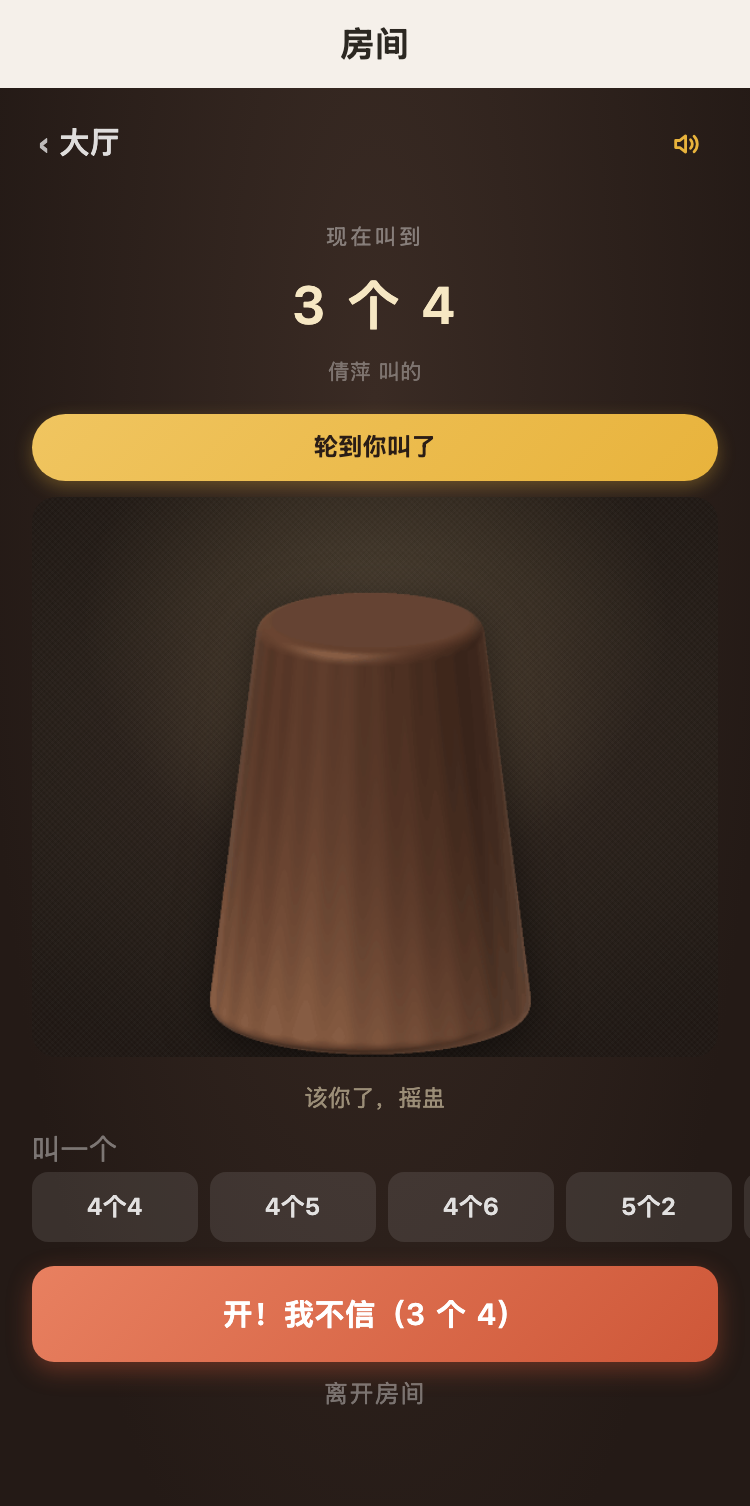
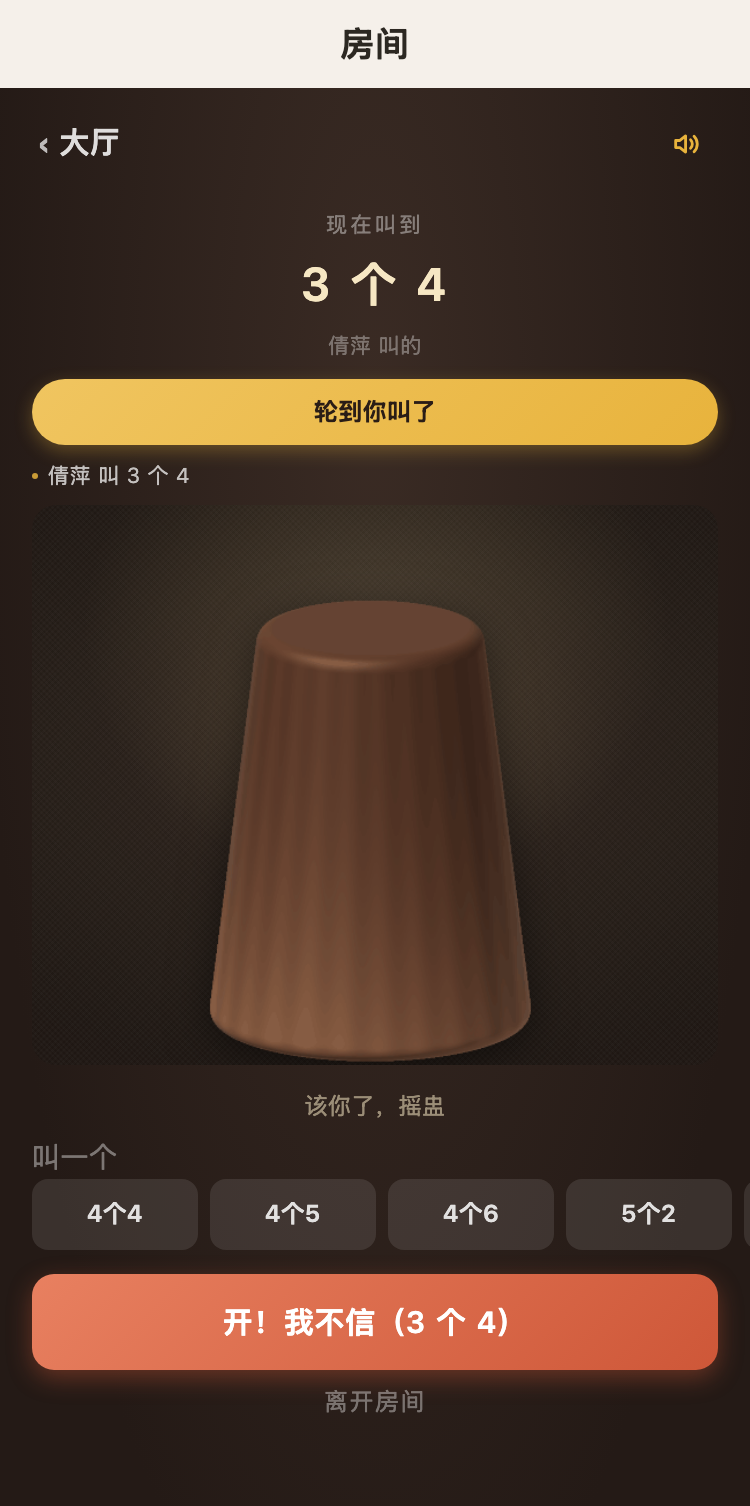
feat(3.9.26): 加事件流（别人做了什么），并压掉一屏溢出的 84px
在它之前，别人叫骰只是屏幕上的数字悄悄变了 —— 桌上没人知道刚才谁干了什么，
屏幕看起来像自己在动，而不是对面坐着人在玩。竞品拆解里这条的优先级
被排在'再加几个音效'之前，因为它补的是因果感，不是信息量。

事件在**前端对比前后两帧生成**，不让服务端再存一份事件列表：
响应里本来就带着 bid/players/lastResult，多存一份就是多一个会和状态
不一致的副本（这个项目对'同一件事有两个出口'栽过多次）。

受压空间的三处实测取舍：
· 事件流只留 1 条 —— 2 条就把「开！」和「离开房间」挤下屏，而那是这一屏唯一的出口
· 叫骰区 34/26rpx → 22/16rpx、字号 52 → 46（它只是一行信息，原来占了 190px）
· 骰盅场景**压到 500rpx 是错的**（盅抬起后包围盒顶跑到 −50.9rpx 会被裁掉盅顶），
  geometry 断言当场报错，所以退回 560，改从别处省

顺带修了 geometry 断言的解析器： 用 (?:^|;) 匹配属性，
而块内注释结尾不是分号 —— 一条写在 height 前面的注释就让 height 完全读不到，
报错是'读不到 rpx 值'，看起来像布局坏了，其实是尺子坏了。

diff --git a/outputs/ui/room-liarPlay.html b/outputs/ui/room-liarPlay.html
@@ -380,9 +380,13 @@ view, text, button, input, textarea { box-sizing: border-box }
 }
 
 
-.bidbar { text-align: center; padding: 17px 0 13px }
+.bidbar {
+  text-align: center;
+  
+  padding: 11px 0 8px;
+}
 .bid-lbl { font-size: 10.5px; color: rgba(255,255,255,.4); letter-spacing: 1.5px }
-.bid-val { font-size: 26px; font-weight: 700; color: #F6E7C3; margin-top: 5px; letter-spacing: 1px }
+.bid-val { font-size: 23px; font-weight: 700; color: #F6E7C3; margin-top: 3px; letter-spacing: 1px }
 .bid-val.hint { font-size: 13px; color: rgba(255,255,255,.4); font-weight: 400 }
 .bid-by { font-size: 10.5px; color: rgba(255,255,255,.35); margin-top: 4px }
 
@@ -397,6 +401,7 @@ view, text, button, input, textarea { box-sizing: border-box }
 
 .cupscene {
   position: relative;
+  
   height: 280px;
   display: flex; align-items: center; justify-content: center;
   margin-bottom: 12px;
@@ -742,6 +747,8 @@ view, text, button, input, textarea { box-sizing: border-box }
 }
 .textbtn:active { color: rgba(255,255,255,.6) }
 
+.actrow .textbtn { flex: 1; height: 38px; font-size: 13px }
+
 
 
 
@@ -862,16 +869,22 @@ view, text, button, input, textarea { box-sizing: border-box }
 
 
 
+
 .cdbox {
   position: relative; overflow: hidden;
-  text-align: center; padding: 35px 15px 32px;
-  border-radius: var(--r-3); margin-bottom: var(--gap-3);
-  background: linear-gradient(150deg, #4A3630 0%, #2E211C 100%);
+  min-height: calc(100vh - 120px);
+  display: flex; flex-direction: column;
+  align-items: center; justify-content: center;
+  text-align: center; padding: 20px 15px;
+  border-radius: var(--r-3);
+  background:
+    radial-gradient(ellipse 70% 46% at 50% 46%, rgba(232,179,60,.13) 0%, rgba(232,179,60,0) 72%),
+    linear-gradient(150deg, #4A3630 0%, #2E211C 100%);
   box-shadow: var(--sh-3);
 }
 .cd-glow {
-  position: absolute; width: 230px; height: 230px; border-radius: 50%;
-  left: 50%; top: 50%; margin-left: -115px; margin-top: -115px;
+  position: absolute; width: 320px; height: 320px; border-radius: 50%;
+  left: 50%; top: 50%; margin-left: -160px; margin-top: -160px;
   background: radial-gradient(circle, rgba(232,179,60,.3) 0%, rgba(232,179,60,0) 70%);
   animation: cdPulse 1s ease-in-out infinite;
 }
@@ -882,10 +895,11 @@ view, text, button, input, textarea { box-sizing: border-box }
 .cd-in { position: relative }
 .cd-lbl { font-size: 11px; color: rgba(255,255,255,.5); letter-spacing: 2px }
 .cd-num {
-  font-size: 70px; font-weight: 700; color: #F6E7C3;
-  line-height: 1.05; margin: 7px 0 5px;
-  letter-spacing: -1px;
-  text-shadow: 0 3px 15px rgba(232,179,60,.45);
+  
+  font-size: 100px; font-weight: 700; color: #F6E7C3;
+  line-height: 1.02; margin: 10px 0 7px;
+  letter-spacing: -2px;
+  text-shadow: 0 4px 22px rgba(232,179,60,.5);
 }
 
 .cd-num.pop-a { animation: cdPopA .82s cubic-bezier(.22, 1.45, .5, 1) both }
@@ -903,7 +917,7 @@ view, text, button, input, textarea { box-sizing: border-box }
 
 
 .cd-num.go {
-  font-size: 60px;
+  font-size: 75px;
   color: #FFF3D6;
   text-shadow: 0 0 20px rgba(255,210,140,.9), 0 4px 17px rgba(232,179,60,.6);
   animation: cdGoBurst .5s cubic-bezier(.16, 1.3, .4, 1) both;
@@ -1189,6 +1203,39 @@ view, text, button, input, textarea { box-sizing: border-box }
 .uw-seat.out .uw-seat-t { text-decoration: line-through }
 
 
+
+.uw-tie {
+  margin-bottom: var(--gap-2);
+  padding: 13px 12px;
+  border-radius: var(--r-2);
+  background: linear-gradient(160deg, rgba(232,179,60,.16), rgba(232,179,60,.06));
+  border: 1px solid rgba(232,179,60,.42);
+  text-align: center;
+  animation: tieIn .42s cubic-bezier(.34,1.3,.64,1) backwards;
+}
+@keyframes tieIn {
+  0%   { opacity: 0; transform: scale(.94) }
+  100% { opacity: 1; transform: scale(1) }
+}
+.uw-tie-t {
+  font-size: 17px; font-weight: 700; color: #FFE9B8; letter-spacing: 1px;
+}
+.uw-tie-s {
+  margin-top: 5px; font-size: 12px; color: rgba(255,255,255,.82); line-height: 1.6;
+}
+.uw-tie-x {
+  margin-top: 4px; font-size: 10px; color: rgba(255,255,255,.45);
+}
+
+
+.uw-note.strong { color: #FFD9A0; font-weight: 600 }
+
+.uw-dead {
+  margin-top: 6px;
+  font-size: 10.5px; color: rgba(255,255,255,.55); line-height: 1.7;
+}
+
+
 .uw-note {
   font-size: 11.5px; color: rgba(255,255,255,.5);
   text-align: center; line-height: 1.7; margin-bottom: var(--gap-2);
@@ -1211,6 +1258,28 @@ view, text, button, input, textarea { box-sizing: border-box }
 }
 
 
+.evstrip {
+  margin: 1px 0 7px;
+  display: flex; flex-direction: column; gap: 3px;
+}
+.ev-row {
+  display: flex; align-items: center; gap: 5px;
+  opacity: .5;
+  transition: opacity .2s;
+}
+
+.ev-row.new { opacity: 1; animation: evIn .34s cubic-bezier(.22, 1, .36, 1) backwards }
+@keyframes evIn {
+  0%   { opacity: 0; transform: translateX(-7px) }
+  100% { opacity: 1; transform: translateX(0) }
+}
+.ev-dot {
+  width: 3px; height: 3px; border-radius: 50%; flex: none;
+  background: rgba(232,179,60,.85);
+}
+.ev-t { font-size: 10.5px; color: rgba(255,255,255,.72); line-height: 1.4 }
+
+
 
 .uw-list {
   display: flex; flex-wrap: wrap; gap: 7px;
@@ -1220,7 +1289,8 @@ view, text, button, input, textarea { box-sizing: border-box }
   
   flex: 0 0 48.5%;
   box-sizing: border-box;
-  padding: 12px 10px;
+  
+  padding: 8.5px 10px;
   background: rgba(255,255,255,.06);
   border: 1px solid rgba(255,255,255,.08);
   border-radius: 10px;
@@ -1740,7 +1810,12 @@ view, text, button, input, textarea { box-sizing: border-box }
         <span >轮到你叫了</span></div>
 
       
-      <div class="cupscene">
+      <div class="evstrip">
+        <div class="ev-row new">
+          <span class="ev-dot"></span>
+          <span class="ev-t">倩萍 叫 3 个 4</span>
+        </div>
+      </div><div class="cupscene">
         <div class="cs-felt"></div>
         <div class="cs-spot"></div>
 

diff --git a/miniprogram/pages/room/room.js b/miniprogram/pages/room/room.js
@@ -196,6 +196,22 @@ Page({
      */
     cdTick: 0,
 
+    /*
+     * 事件流：**别人做了什么**。
+     *
+     * 这是多人游戏最容易缺、又最影响"像不像在跟人玩"的一件东西。
+     * 在它之前，别人叫骰只是界面上的数字悄悄变了 —— 桌上没人知道
+     * 刚才谁干了什么，也没有"哦他叫了个大的"这个瞬间。
+     * 竞品（Plato 等）的做法是每步动作同时发成一条聊天消息，
+     * 我们不需要聊天，只需要**一行可见的动作记录**。
+     *
+     * 只保留 1 条（真机高度量过：2 条就把底部出口挤下屏了 ——
+     *   而底部那两个按钮是这一屏唯一的出口，比"留两条历史"重要得多。
+     *   真要多留历史，应该换布局（浮层），不该硬挤主界面的高度），
+     * 且**不含自己的操作**（自己做的自己有反馈）。
+     */
+    events: [],
+
     /* ---------- 骰盅 ---------- */
     cupSrc: 'cup-down',  // 当前显示的盅图（cup-down / cup-shake / cup-up）
     cupCls: '',          // 附加动画类（shaking / slam / lift）
@@ -771,6 +787,9 @@ Page({
    *   而且**不报错**。统一在一个入口重置，才不会有漏网的。
    */
   resetRound() {
+    /* 事件流属于"这一局"，新一局必须清 —— 否则开局第一屏还挂着上一局的旧事 */
+    this.setData({ events: [] })
+    this._evSeq = 0
     this.clearCupTimers()
     this.setData({
       myDice: [], myRolled: false, liarReady: false, diceShown: false,
@@ -916,9 +935,69 @@ Page({
    * 但逻辑层的 options 已经没了，取不到就静默 return）。
    * 收敛成一个入口，比"每次记得手动 decorate"可靠。
    */
+  /**
+   * 往事件流里塞一条。
+   *
+   * ★ 为什么事件是**本地生成**而不是服务端广播：
+   *   服务端每次响应本来就带着全部关键状态（bid / players / lastResult），
+   *   前端对比前后两帧就能还原"刚刚发生了什么"。
+   *   让服务端再存一份事件列表，等于多一个会和状态不一致的副本
+   *   （本项目对"同一件事有两个出口"栽过多次）。
+   *
+   *   代价是各手机看到的事件顺序可能差半个轮询周期 —— 可以接受：
+   *   它不是权威记录，只是"让屏幕上的变化有个来由"。
+   */
+  _evPush(text) {
+    if (!text) return
+    const cur = (this.data.events || []).slice()
+    if (cur.length && cur[0].text === text) return   // 同一件事不叠加
+    this._evSeq = (this._evSeq || 0) + 1
+    cur.unshift({ id: 'e' + this._evSeq, text: text })
+    /*
+     * ★ 只留 2 条（不是 3 条）。按真机高度量过：3 条会把底部的
+     *   「开！」和「离开房间」挤到屏幕外，而它们是这一屏唯一的出口。
+     *   事件流是环境信息，不能为了多留一条历史牺牲可操作区。
+     */
+    this.setData({ events: cur.slice(0, 1) })
+  },
+
+  /**
+   * 对比前后两帧，把"别人做了什么"变成一行话。
+   * 只处理**有语义的动作**，不做"任何字段变了都记一条"（那会变成日志噪声）。
+   */
+  _evDiff(prev, raw) {
+    if (!prev || !raw || raw.phase !== 'playing') return
+    const mySeat = (raw.me && raw.me.seat) || 0
+
+    /* 叫骰被别人改掉 */
+    const a = prev.bid, b = raw.bid
+    if (b && (!a || a.at !== b.at) && b.bySeat !== mySeat) {
+      this._evPush(b.byName + ' 叫 ' + b.n + ' 个 ' + b.face)
+    }
+
+    /* 别人摇好了（比大小：diceCount 从 0 变正） */
+    const prevP = prev.players || []
+    ;(raw.players || []).forEach(p => {
+      const q = prevP.filter(x => x.openid === p.openid)[0]
+      if (q && !q.diceCount && p.diceCount > 0 && p.seat !== mySeat) {
+        this._evPush(p.name + ' 摇好了')
+      }
+    })
+
+    /* 有结果了（开盅 / 出局 / 摊牌）——这是全场焦点，必须进事件流 */
+    if (raw.lastResult && (!prev.lastResult || prev.lastResult.kind !== raw.lastResult.kind)) {
+      const lr = raw.lastResult
+      if (lr.kind === 'undercover' && lr.winner) {
+        this._evPush(lr.winner === 'spy' ? '卧底赢了' : '好人赢了')
+      }
+    }
+  },
+
   applyRoom(raw, extra) {
     if (!raw) return
     if (this._dead) return
+    /* 事件流要在 setData 之前比对 —— 之后 this.data.room 已经是新的一帧了 */
+    this._evDiff(this.data.room, raw)
     /*
      * 倒计时的服务端校正。
      *

diff --git a/scripts/test-cup-geometry.js b/scripts/test-cup-geometry.js
@@ -55,9 +55,16 @@ const IMG = { w: 312, h: 485, cTop: 83, cBottom: 483, cLeft: 13, cRight: 291 }
 
 /* ---------- 从 wxss 里抽真实数值（测的是线上真正生效的那份） ---------- */
 function rule(selector) {
-  const css = fs.readFileSync(WXSS, 'utf8')
+  /*
+   * ★ 必须先**剥掉注释**再解析（2026-10-28 踩到）：
+   *   `px()` 用 `(?:^|;)\s*prop:` 匹配，而块内注释 `/* … *\/` 结尾不是 `;`，
+   *   于是一条写在 `height` 前面的注释会让 `height: 500rpx` 完全读不到 ——
+   *   断言直接崩在"读不到 rpx 值"，看起来像"改坏了布局"，
+   *   实际上只是解析器不认注释。值是对的，尺子是坏的。
+   */
+  const css = fs.readFileSync(WXSS, 'utf8').replace(/\/\*[\s\S]*?\*\//g, '')
   /* 取最后一个匹配 —— 后面的规则会覆盖前面的 */
-  const re = new RegExp(selector.replace(/[.*+?^${}()|[\]\\]/g, '\\$&') + '\\s*\\{([^}]*)\\}', 'g')
+  const re = new RegExp(selector.replace(/[.*+?^${}()|[\]\\]/g, '\\$&') + '\\s*\\{([^}]*)\}', 'g')
   let m, last = null
   while ((m = re.exec(css))) last = m[1]
   assert.ok(last, 'wxss 里找不到规则 ' + selector)

diff --git a/scripts/ui-render/mock/room.js b/scripts/ui-render/mock/room.js
@@ -147,6 +147,8 @@ module.exports = {
     /* 大话骰：扣盅后轮到我叫骰 */
     liarPlay: () => ({
       stage: 'playing',
+      /* 事件流：别人刚做了什么（2026-10-28 加，见 room.wxss 的 .evstrip） */
+      events: [{ id: 'e2', text: '倩萍 叫 3 个 4' }],
       cupSrc: 'cup-down', cupCls: '', cupHint: '该你了，摇盅',
       myRolled: true, diceShown: true, rolling: false, liarReady: true,
       myDice: [3, 5, 1, 6, 3],
